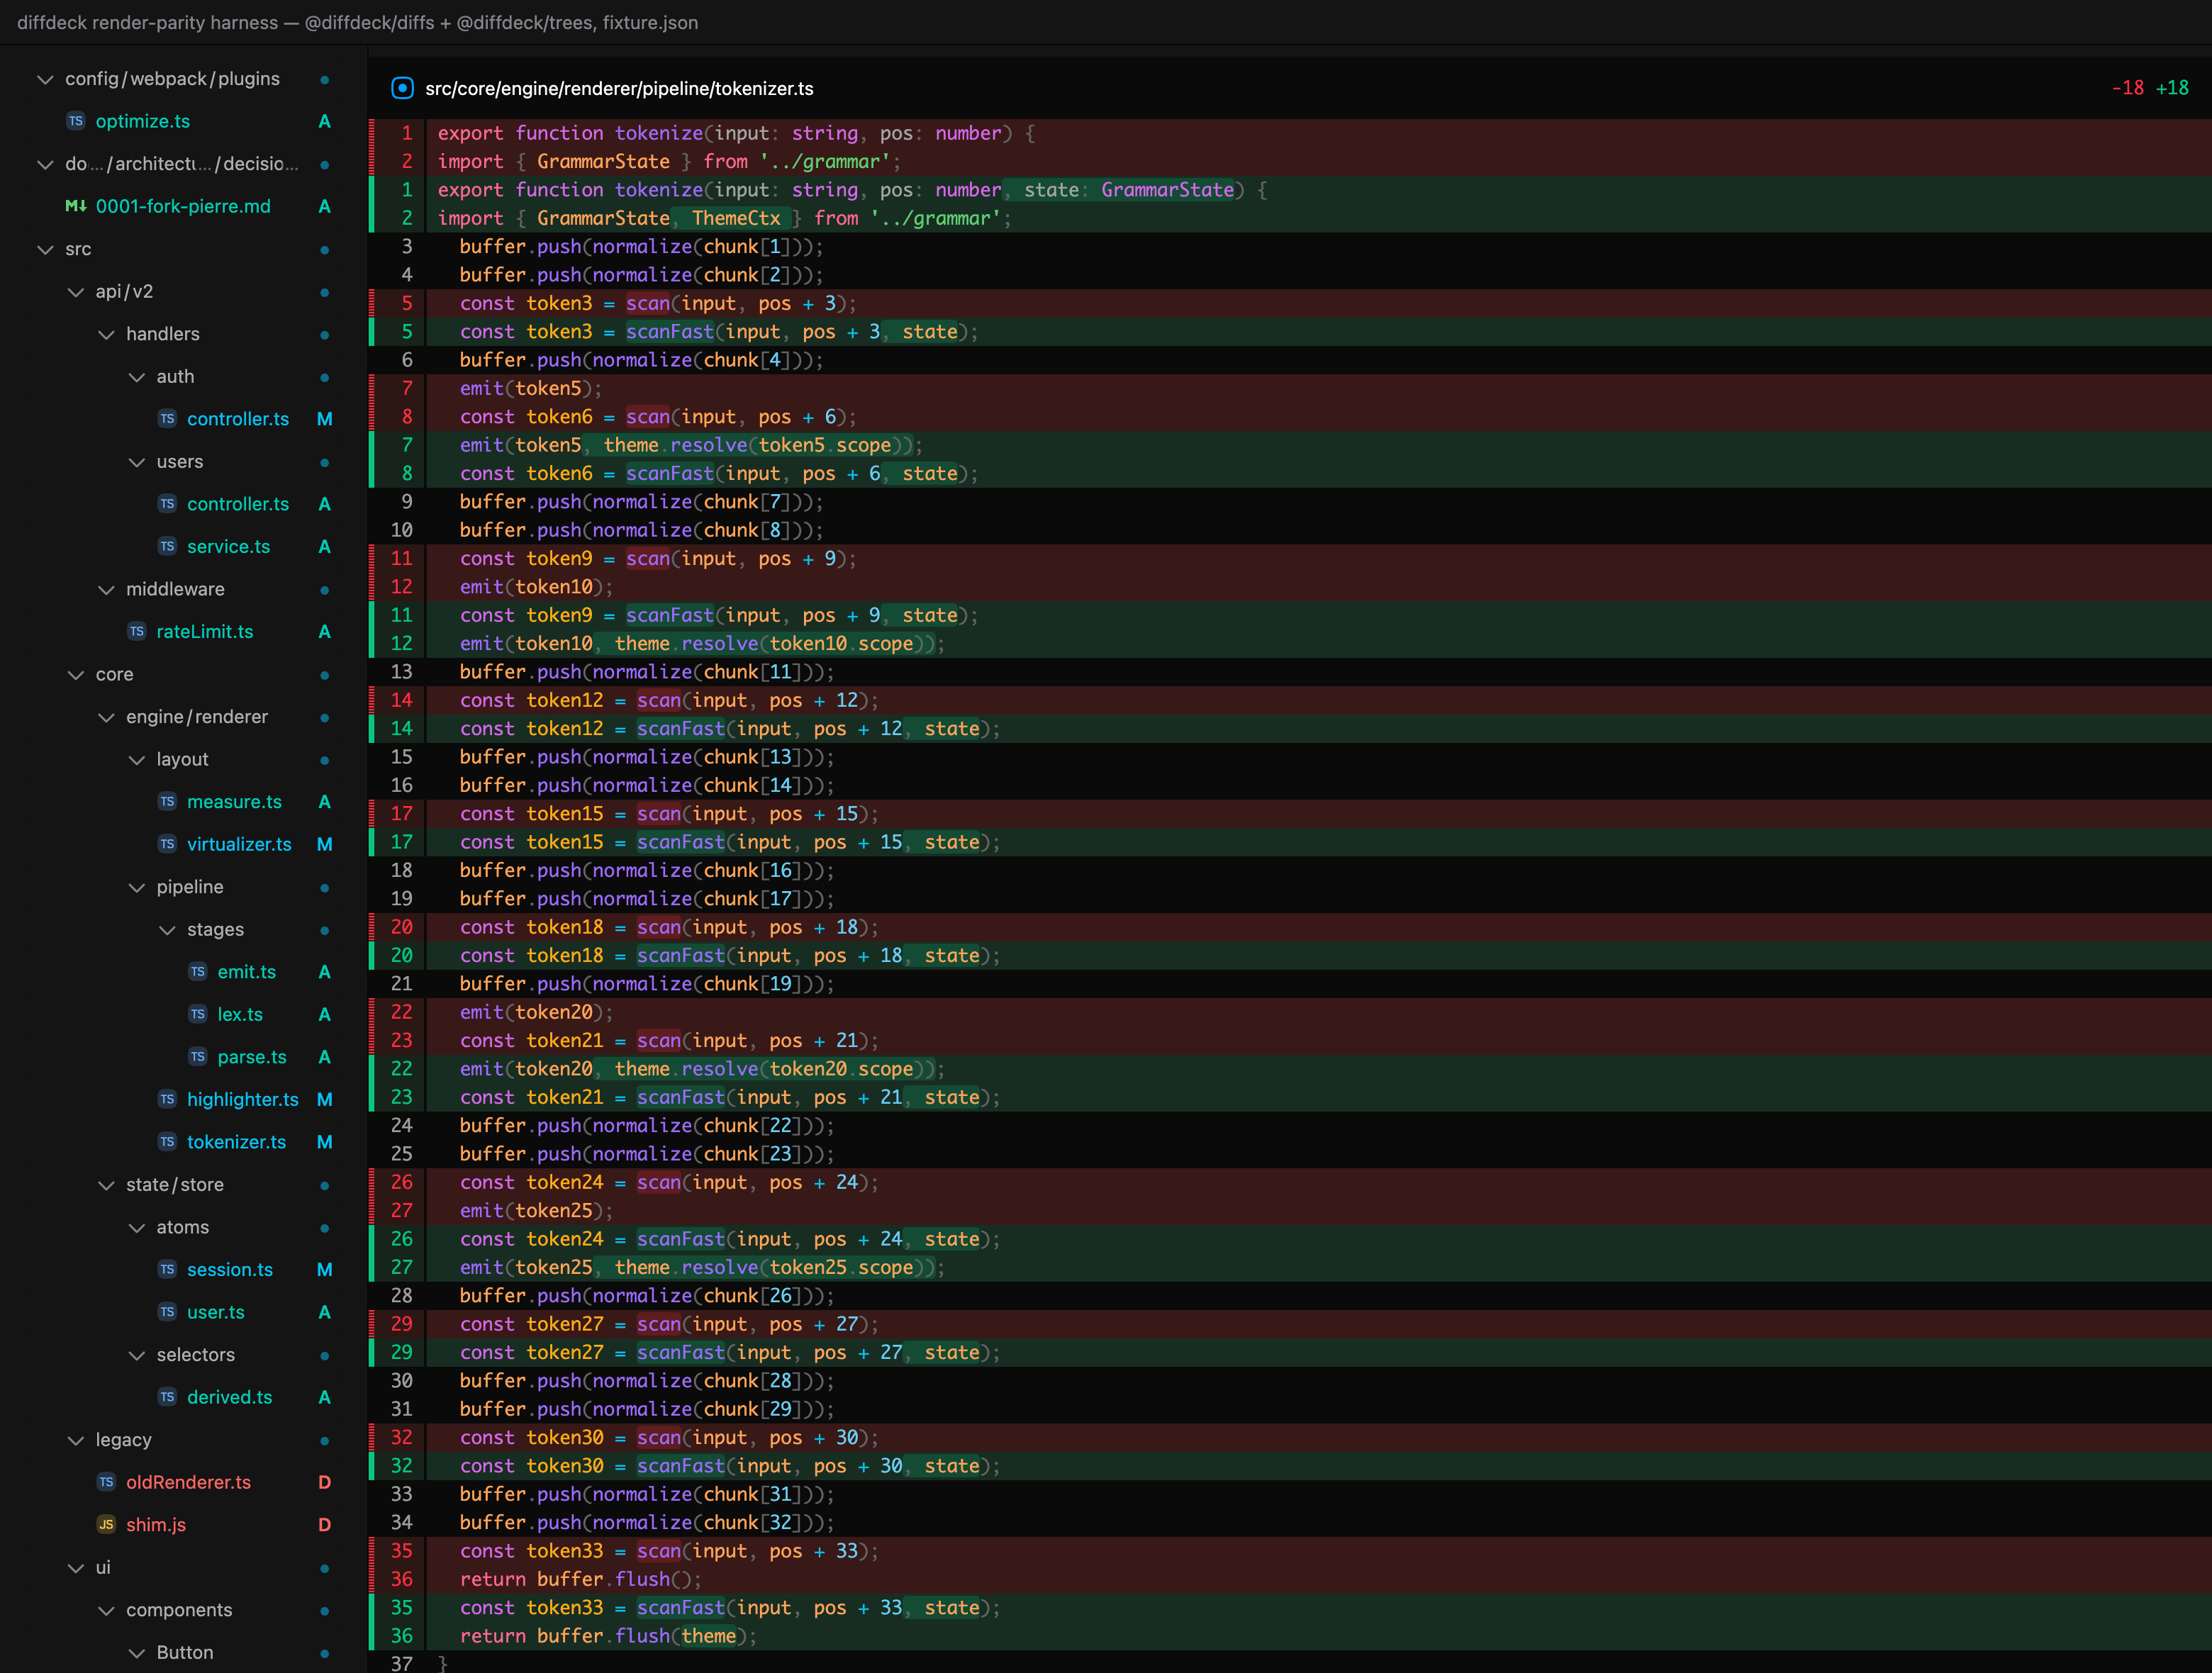
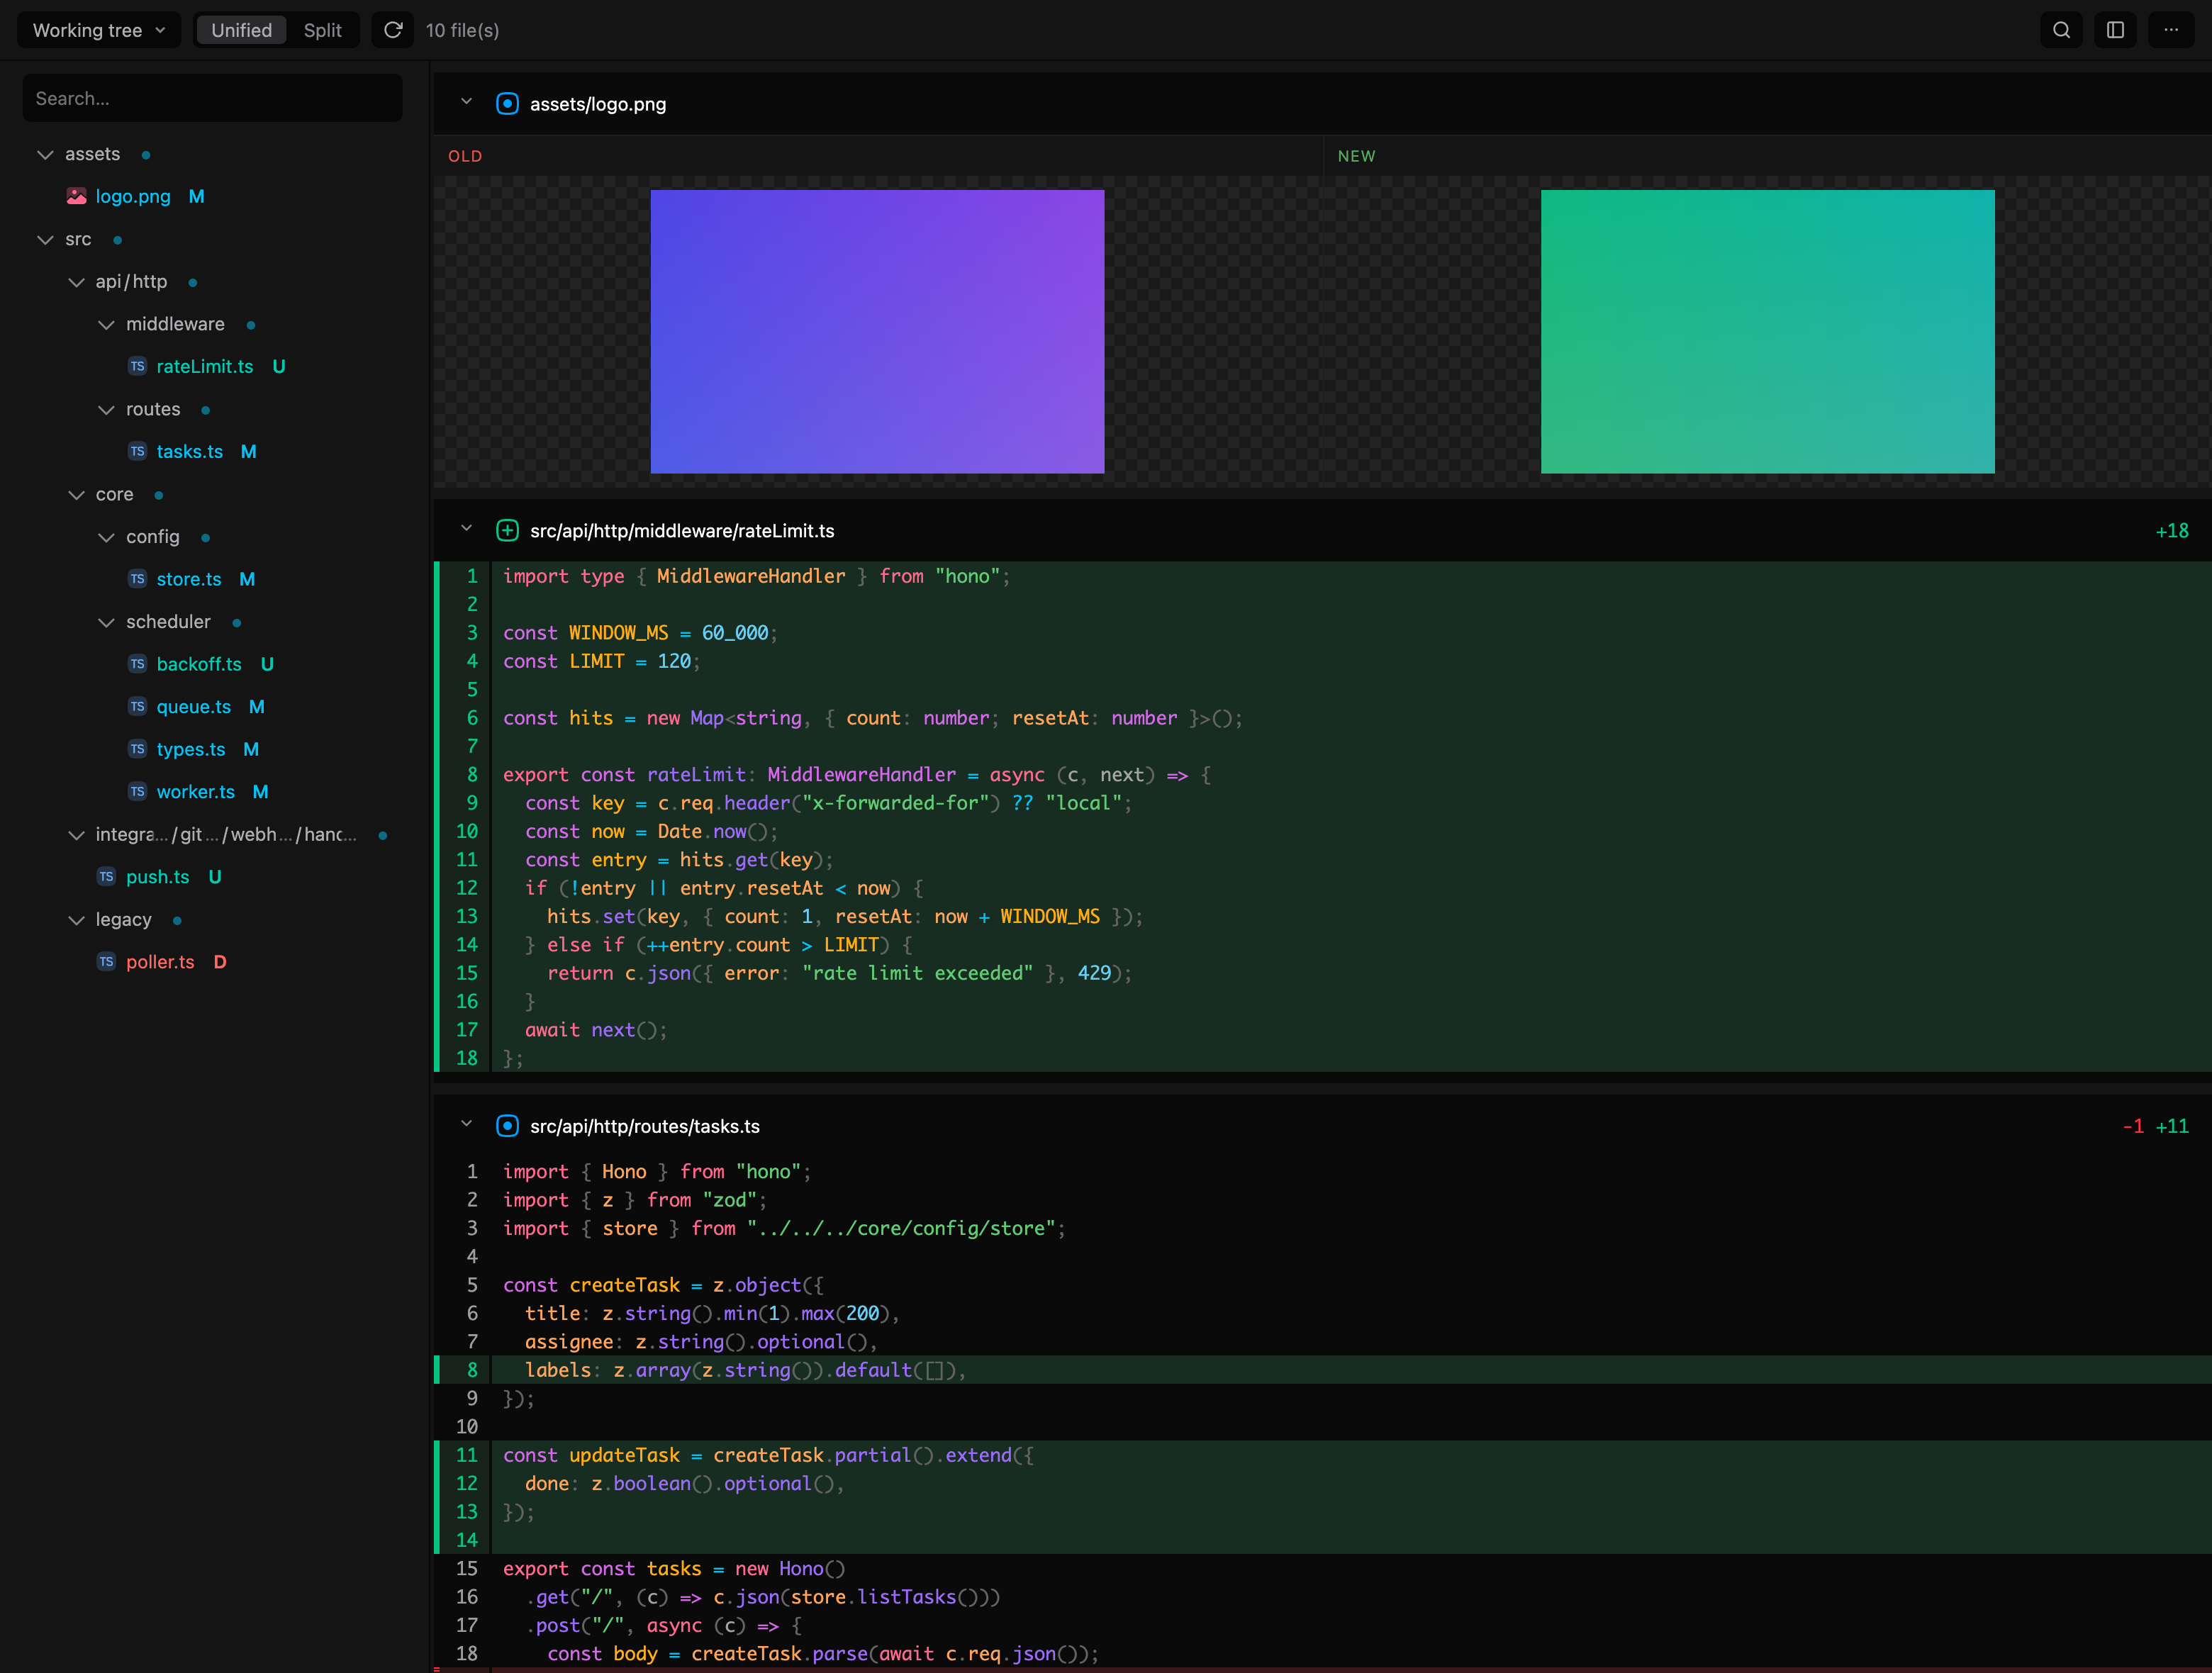
docs: refresh README screenshot to the real viewer and add a demo GIF
The hero screenshot still showed the render-parity harness from the
Foundation phase, not the shipped viewer. Replace it with a capture of
the actual apps/viewer UI (toolbar, file tree with git-status badges,
inline image diff, syntax-highlighted diffs) and add docs/demo.gif
showing the viewer in motion: scrolling, jump-to-file from the tree,
click-to-fold, in-app search, and split view. Update the image alt
text in all five README languages, and drop the parity-harness
section's claim that it reproduces the (now different) screenshot.

Claude-Session: https://claude.ai/code/session_018uMQmxEBkU1Qqyw97TjzEt

diff --git a/README.md b/README.md
@@ -9,7 +9,7 @@ A local diff viewer, built on a vendored fork of Pierre's [`@pierre/diffs`](http
 [![Bun](https://img.shields.io/badge/Bun-black?style=flat&logo=bun)](https://bun.sh)
 [![License](https://img.shields.io/badge/license-Apache--2.0-blue)](#license)
 
-![diffdeck rendering a large multi-file diff with syntax highlighting and a deep, flattened file tree](docs/screenshot.png)
+![The diffdeck viewer — file tree with git-status badges, an inline image diff, and syntax-highlighted diffs](docs/screenshot.png)
 
 ## What is this?
 
@@ -19,7 +19,7 @@ The result is a Bun-workspace monorepo where a commodity-hard, framework-agnosti
 
 ## Features
 
-What the diff-rendering engine provides (all demonstrated by the render above):
+What the diff-rendering engine provides:
 
 - **Syntax-highlighted diffs** via [Shiki](https://shiki.style/) with TextMate themes (light + dark).
 - **Full old/new file diffs**, not just patches — so unchanged context can be collapsed and **expanded on demand**.
@@ -30,6 +30,8 @@ What the diff-rendering engine provides (all demonstrated by the render above):
 - **Shadow-DOM encapsulation** per file, so the viewer's styles never leak into the page.
 
 The interactive viewer chrome that wraps this engine — click-to-fold, copy-path, in-app search, watch/auto-refresh, and working-tree-vs-base modes — comes from the [cc-statusline](https://github.com/say8425/cc-statusline) viewer and now lives in diffdeck's `apps/viewer/`.
+
+![diffdeck demo — scrolling a large diff, jumping to a file from the tree, click-to-fold, in-app search, and split view](docs/demo.gif)
 
 ## Installation
 
@@ -176,7 +178,7 @@ Three lanes:
 
 ### Render-parity harness
 
-Reproduces the screenshot above — confirms the forked `CodeView` + `FileTree` actually render:
+Confirms the forked `CodeView` + `FileTree` actually render:
 
 ```bash
 bun run scripts/parity/build.ts

diff --git a/docs/README.es.md b/docs/README.es.md
@@ -9,7 +9,7 @@ Un visor de diff local, construido sobre un fork vendorizado de los paquetes de 
 [![Bun](https://img.shields.io/badge/Bun-black?style=flat&logo=bun)](https://bun.sh)
 [![License](https://img.shields.io/badge/license-Apache--2.0-blue)](#licencia)
 
-![diffdeck renderizando un diff grande de múltiples archivos con resaltado de sintaxis y un árbol de archivos profundo y aplanado](screenshot.png)
+![El visor de diffdeck — árbol de archivos con insignias de estado de git, diff de imagen en línea y diffs con resaltado de sintaxis](screenshot.png)
 
 ## ¿Qué es esto?
 
@@ -19,7 +19,7 @@ El resultado es un monorepo de workspaces de Bun donde un motor de diff sólido 
 
 ## Características
 
-Lo que ofrece el motor de renderizado de diffs (todo demostrado en el render de arriba):
+Lo que ofrece el motor de renderizado de diffs:
 
 - **Diffs con resaltado de sintaxis** vía [Shiki](https://shiki.style/) con temas TextMate (claro + oscuro).
 - **Diffs completos de archivo old/new**, no solo patches — de modo que el contexto sin cambios puede colapsarse y **expandirse bajo demanda**.
@@ -30,6 +30,8 @@ Lo que ofrece el motor de renderizado de diffs (todo demostrado en el render de 
 - **Encapsulación con Shadow DOM** por archivo, de modo que los estilos del visor nunca se filtran a la página.
 
 El chrome interactivo del visor que envuelve este motor — plegado con clic, copiar ruta, búsqueda integrada, watch/auto-actualización, y modos working-tree-vs-base — proviene del visor de [cc-statusline](https://github.com/say8425/cc-statusline) y ahora vive en `apps/viewer/` de diffdeck.
+
+![Demo de diffdeck — desplazamiento por un diff grande, salto a un archivo desde el árbol, plegado con clic, búsqueda integrada y vista split](demo.gif)
 
 ## Instalación
 
@@ -158,7 +160,7 @@ Tres carriles:
 
 ### Arnés de paridad de renderizado
 
-Reproduce la captura de pantalla de arriba — confirma que el `CodeView` + `FileTree` bifurcados realmente renderizan:
+Confirma que el `CodeView` + `FileTree` bifurcados realmente renderizan:
 
 ```bash
 bun run scripts/parity/build.ts

diff --git a/docs/README.zh.md b/docs/README.zh.md
@@ -9,7 +9,7 @@
 [![Bun](https://img.shields.io/badge/Bun-black?style=flat&logo=bun)](https://bun.sh)
 [![License](https://img.shields.io/badge/license-Apache--2.0-blue)](#许可证)
 
-![diffdeck 渲染带语法高亮的大型多文件 diff 及扁平化的深层文件树](screenshot.png)
+![diffdeck 查看器 —— 带 git 状态徽章的文件树、内联图片 diff 与语法高亮 diff](screenshot.png)
 
 ## 这是什么？
 
@@ -19,7 +19,7 @@ diffdeck 最初是内置在 [cc-statusline](https://github.com/say8425/cc-status
 
 ## 功能
 
-diff 渲染引擎提供的功能（以上渲染效果均已展示）：
+diff 渲染引擎提供的功能：
 
 - **语法高亮 diff**：通过 [Shiki](https://shiki.style/) 实现，支持 TextMate 主题（浅色 + 深色）。
 - **完整的新旧文件 diff**，而非仅有 patch —— 未变更的上下文可以折叠，并可**按需展开**。
@@ -30,6 +30,8 @@ diff 渲染引擎提供的功能（以上渲染效果均已展示）：
 - **每个文件独立的 Shadow DOM 封装**，确保查看器的样式不会泄漏到页面中。
 
 包裹这一引擎的交互式查看器外壳——点击折叠、复制路径、应用内搜索、watch/自动刷新，以及 working-tree 与 base 对比模式——沿用自 [cc-statusline](https://github.com/say8425/cc-statusline) 的查看器，现已移入 diffdeck 的 `apps/viewer/` 中。
+
+![diffdeck 演示 —— 滚动大型 diff、从文件树跳转到文件、点击折叠、应用内搜索、split 视图](demo.gif)
 
 ## 安装
 
@@ -158,7 +160,7 @@ bun run format      # oxfmt
 
 ### 渲染一致性验证工具
 
-复现上方截图效果——用于确认 fork 出来的 `CodeView` + `FileTree` 确实能够正常渲染：
+用于确认 fork 出来的 `CodeView` + `FileTree` 确实能够正常渲染：
 
 ```bash
 bun run scripts/parity/build.ts